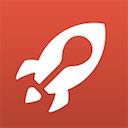
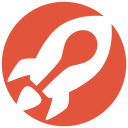
more changes
- changed icons to circular icons
- made minor ui changes to the popup
- shortened text under button

diff --git a/css/popup.css b/css/popup.css
@@ -6,9 +6,11 @@
 
 body {
   font-family: 'Karla', Helvetica, Arial, sans-serif;
-
-  width:260px;
-  padding:25px;
+height:380px;
+overflow:none;
+  width:240px;
+  background:#fbfcfd;
+  padding:20px;
   -webkit-border-radius: 100px;
 	-moz-border-radius: 100px;
 	border-radius: 100px;
@@ -42,7 +44,7 @@ a#hedlink:focus {
 h2 { /*title: don't forget to eat*/
   font-size: 18px;
   color: #777;
-  line-height:0px;
+  line-height:10px;
 }
 
 p{ /* paragraph text */
@@ -97,7 +99,7 @@ display:inline-block;
 
 }
 .time {
-	font-size:30px;
+	font-size:32px;
 	border-bottom: 1px dashed #888;
 	cursor: pointer;
 	color: #e3553c;
@@ -122,19 +124,20 @@ display:inline-block;
 	text-align:left;
   	
 	/* general */
-	padding:10px;	
-	width: 90px;
+
+	width: 120px;
 	display: none;
 	overflow-y: scroll;
 	z-index:1000;
 	max-height: 100px;
-  	border-radius:0px 6px 6px 6px;
+  	border-radius:0px 0px 3px 3px;
   	background-color: #fafafc;
-
+	box-shadow: 2px 2px 2px rgba(80,80,100,0.2);
   
 	/* position */	
 	position: absolute;
-	left: 0;	
+	left: 50%;
+	margin-left:-60px;	
 	right: 0;
   
   
@@ -145,11 +148,13 @@ display:inline-block;
 }
 .timeOption {
 	cursor: pointer;
-	background-color: #fafafc;
+	padding:3px 0px 3px 15px;
+	/*top right bottom left*/
+
 	color: #888;
 }
 .timeOption:hover {
-	background-color: #eee;
+	background-color: #f2f2f3;
 	color:#555;
 }
 
@@ -183,31 +188,78 @@ display:inline-block;
   */
 }
 
-.tinyText{
+.tinyText, .tinyText p{
 font-size:10px;
 font-size:#999;
 line-height:10px;
+text-align:center;
+position:relative;
+transform: none
 }
 
+/*
+
+
+style="display: block; 
+overflow: hidden; 
+height: 6.35569036122487px; 
+padding: 0px; 
+margin: 6.35569036122487px 0px; 
+width: 165.247949391847px; 
+opacity: 0.635569036122487;"
+*/
 #reminderSet{
-display:none;
+
+display: none; 
+overflow: hidden; 
+position:relative;
+margin-left:-80px;
+left:50%;
+height: 20px;
+padding: 0px; 
+width: 160px;
+opacity: 1;
 }
 #reminderNotSet{
-  display: none;
-}
+display: none; 
+overflow: hidden; 
+position:relative;
+margin-left:-120px;
+left:50%;
+height: 20px;
+padding: 0px; 
+width: 240px;
+opacity: 1;
+  }
 /*========================
    link to spoonrocket
 ==========================*/
 
 
 a#bottomLink, #bottomLink a {
-	padding-top:100px;
-  margin-bottom: 20px;
+	position: absolute;
+	width:200px;
+	font-size:12px;
+	font-weight:bold;
+	
+	left:50%;
+	margin-left:-100px;
+	text-align:center;
+  bottom: 40px;
   color: #888;
-  border-bottom:1px solid #888;
+/*  border-bottom:1px solid #888;
+  border-top: 1px solid #ddd;*/
+  padding-top:20px;
   text-decoration: none;
 
 
+  -webkit-transition: opacity 0.5s;
+  transition:  opacity 0.5s;
 
 }
+
+a#bottomLink:hover, #bottomLink a:hover {
+opacity:0.6;
+}
+
 

diff --git a/css/style.css b/css/style.css
@@ -21,21 +21,22 @@
 input.cmn-toggle-yes-no + label {
 	/* text */
 	color: white;
-	font-size:14px;
+	font-size:18px;
 	text-align:center;
+	font-weight:normal;
 	
 	/* appearance */
   	background:#6eb9b1;
 	cursor: pointer;
-	border-radius:60px;
+	border-radius:80px;
 	padding:24px 12px; /*height width*/
-	width:100px;
+	width:120px;
 	
 	/*position*/
 	margin-top:20px;
 	position: relative;
 	left:50%;
-	margin-left:-60px;
+	margin-left:-72px;
 }
 input.cmn-toggle-yes-no + label:before, input.cmn-toggle-yes-no + label:after {
   display: block;
@@ -63,7 +64,14 @@ border-radius:60px;
   -ms-backface-visibility: hidden;
   -o-backface-visibility: hidden;
   backface-visibility: hidden;
+  
+    -webkit-transition:   background-color 0.5s;
+  transition:    background-color 0.5s;
+
 }
+input.cmn-toggle-yes-no + label:hover:before {
+  background-color:#68b3ab}
+
 input.cmn-toggle-yes-no + label:after {
 border-radius:60px;
   background-color: #ddd;
@@ -88,6 +96,8 @@ border-radius:60px;
   -o-backface-visibility: hidden;
   backface-visibility: hidden;
 }
+
+
 input.cmn-toggle-yes-no:checked + label:before {
   -webkit-transform: rotateY(180deg);
   -moz-transform: rotateY(180deg);

diff --git a/popup.html b/popup.html
@@ -14,7 +14,7 @@
     <div id="reminders">
       <h1 id="spoonrockethed">
         <a id="hedlink" href="https://www.spoonrocket.com" target="_blank">
-          <img id="roundlogo" height="40" src="icons/roundlogo.png" />
+          <img id="roundlogo" height="44" src="icons/roundlogo.png" />
         </a>
       </h1>
       <h2>Don't Forget to Eat!</h2>
@@ -41,15 +41,18 @@
       </div>
 
     </div>
-	<p class="tinyText" id="reminderSet">your reminder has been set!</p>
-	<p class="tinyText" id="reminderNotSet">no reminder set!</p>
-<br>
+	
+	<p class="tinyText" id="reminderSet">we'll remind you!</p>
+	<p class="tinyText" id="reminderNotSet">cancelled</p>
+
+<hr style="opacity:0; margin-top:10px; margin-bottom:10px;"/>
     <a href="http://www.spoonrocket.com" target="_blank" id="bottomLink">
-    View SpoonRocket's Menu
+    View SpoonRocket's Menu >
     </a>
     <div id="regid" style="display:none">
     The registration ID for push notifications is <br /> <b id="registrationId">test</b>
     </div>
+
 
 
   <script type="text/javascript" src="js/popup.js"></script>
